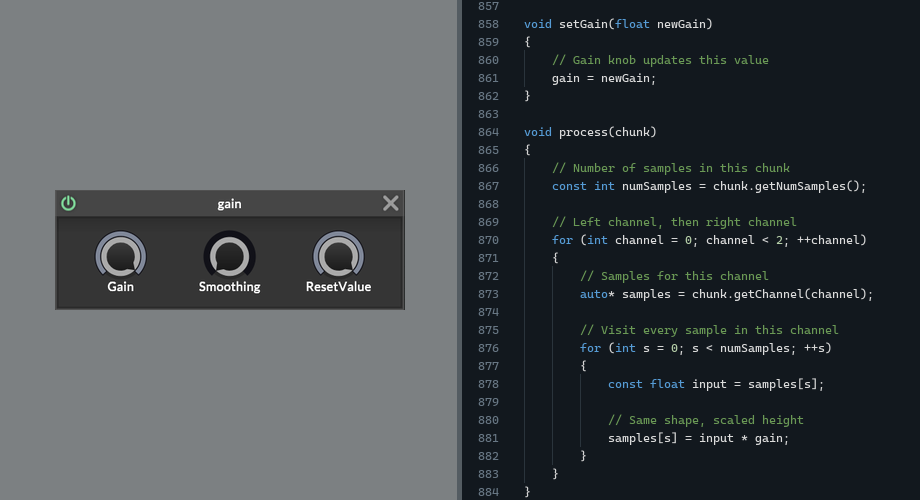
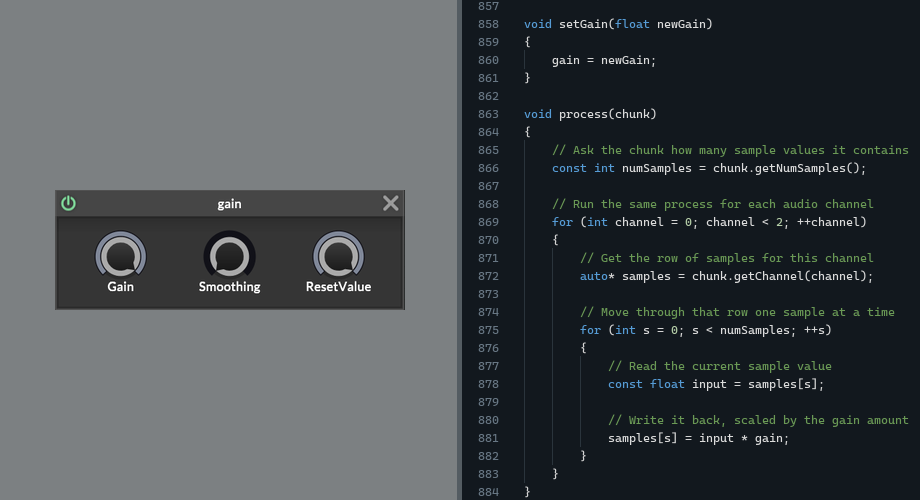
Clarify C++ gain graphic comments

diff --git a/scripts/render_hise_gain_node_cpp_code.py b/scripts/render_hise_gain_node_cpp_code.py
@@ -13,27 +13,27 @@ OUTPUT = ROOT / "articles" / "hise-dsp-buffer" / "renders" / "hise-gain-node-cpp
 
 CODE = """void setGain(float newGain)
 {
-    // Gain knob updates this value
     gain = newGain;
 }
 
 void process(chunk)
 {
-    // Number of samples in this chunk
+    // Ask the chunk how many sample values it contains
     const int numSamples = chunk.getNumSamples();
 
-    // Left channel, then right channel
+    // Run the same process for each audio channel
     for (int channel = 0; channel < 2; ++channel)
     {
-        // Samples for this channel
+        // Get the row of samples for this channel
         auto* samples = chunk.getChannel(channel);
 
-        // Visit every sample in this channel
+        // Move through that row one sample at a time
         for (int s = 0; s < numSamples; ++s)
         {
+            // Read the current sample value
             const float input = samples[s];
 
-            // Same shape, scaled height
+            // Write it back, scaled by the gain amount
             samples[s] = input * gain;
         }
     }